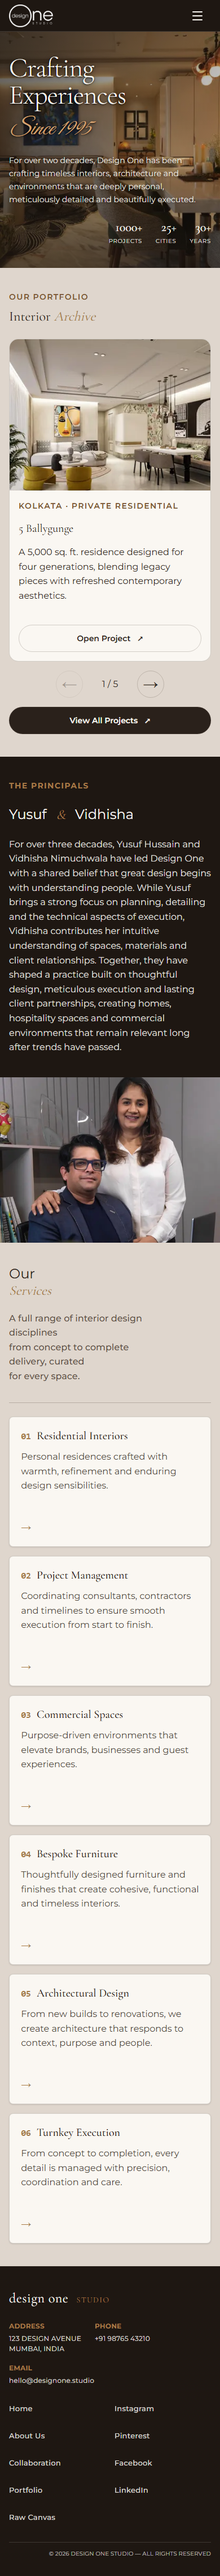
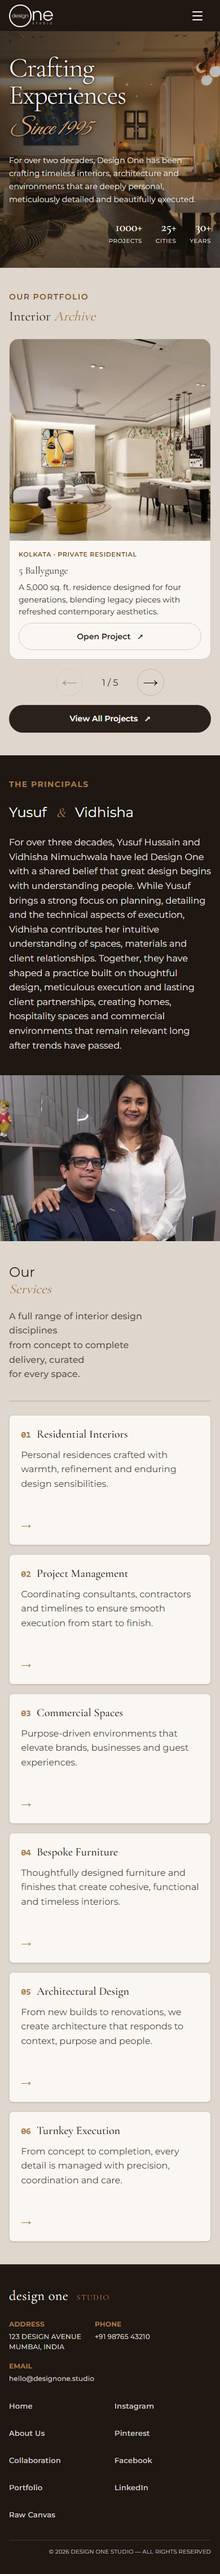
Enlarge mobile carousel photos and reduce caption text

diff --git a/app/mobile-v2.css b/app/mobile-v2.css
@@ -216,14 +216,17 @@
   .mobile-v2 .v2-home-stats p:first-child { font-size: 24px !important; line-height: 1.2; }
   .mobile-v2 .v2-home-stats p:last-child { font-size: 10px !important; line-height: 1.5; letter-spacing: .08em !important; }
   .mobile-v2 .v2-portfolio-hero-frame { min-height: 300px; padding: 24px; }
-  .v2-mobile-carousel-track .v2-preview-photo { aspect-ratio: 16 / 9; }
-  .v2-mobile-carousel-track .v2-preview-copy { min-height: 220px; }
+  .v2-mobile-carousel-track .v2-preview-photo { aspect-ratio: 3 / 2; }
+  .v2-mobile-carousel-track .v2-preview-copy { min-height: 176px; gap: 8px; }
+  .mobile-v2 .v2-preview-copy h3 { font-size: 18px !important; line-height: 1.3 !important; }
+  .mobile-v2 .v2-preview-copy > p { font-size: 14px !important; line-height: 1.55; }
+  .mobile-v2 .v2-preview-copy > .v2-eyebrow { font-size: 11px !important; letter-spacing: .06em !important; }
 }
 @media (max-width: 767px) {
   .mobile-v2 .v2-home-copy h1 { font-size: 48px !important; }
   .mobile-v2 .v2-home-copy .font-script { font-size: 40px !important; }
   .mobile-v2 .v2-home-stats p:first-child { font-size: 22px !important; }
-  .v2-mobile-carousel-track .v2-preview-photo { aspect-ratio: 4 / 3; }
+  .v2-mobile-carousel-track .v2-preview-photo { aspect-ratio: 1 / 1; }
   .mobile-v2 .v2-filter-bar { gap: 4px; justify-content: flex-start; }
   .mobile-v2 .v2-filter-bar .v2-filter-button { font-size: clamp(8px, calc(2.9vw - 2.5px), 11px) !important; letter-spacing: 0 !important; }
   .v2-filter-button span { padding: 7px 4px; }

diff --git a/review/CHANGES.md b/review/CHANGES.md
@@ -6,7 +6,7 @@ The visitor website now adapts to phone and tablet viewports while retaining its
 
 - Phone content layouts stack vertically below 768px. Tablet card collections use two columns through 1279px; reading, galleries, and forms remain single-column.
 - Content gutters are at least 16px on phones and 24px on tablets. Body and form text is 16px. Phone headings use H1 28px and H2 24px; tablet headings use 36px / 28px. The revised homepage hero intentionally uses 48px / 64px titles, a 40px / 48px script line, and smaller 14px supporting text. Inline display sizes were moved into CSS classes.
-- The homepage has a compact image-backed hero, small right-aligned statistics without divider lines, a swipeable live-project carousel, a full-width portfolio CTA, principals introduction/photo, services, and footer.
+- The homepage has a compact image-backed hero, small right-aligned statistics without divider lines, a swipeable live-project carousel with larger image frames and compact captions (11px location, 18px title, 14px description), a full-width portfolio CTA, principals introduction/photo, services, and footer.
 - Portfolio masonry is flattened for compact viewports. Its complete “Our Portfolio” title is visible in a naturally sized hero, all four compact filters stay in one row, and photographs fill cards without black padding. Collaboration introductions precede galleries. Raw Canvas process layouts are simplified, with decorative icons omitted on phones/tablets. Articles and Careers keep their reading order.
 - The fixed header is 56px on compact viewports and 80px on desktop, with separate device-safe-area allowance. The hamburger panel sits below it and includes scroll locking, focus containment/restoration, Escape, outside-tap dismissal, route closing, and desktop-resize closing.
 - Main navigation links and carousel controls have 48px minimum targets. Compact portfolio filters keep a 48px touch height. Forms and primary CTAs fill available phone content width. Labels are associated with fields. The homepage footer uses compact 13px links and 12px contact details; other public footers retain 16px navigation.

diff --git a/review/PERFORMANCE.md b/review/PERFORMANCE.md
@@ -1,5 +1,7 @@
 # Mobile V2 performance report
 
+Benchmark snapshot: commit 738f20a, before the subsequent carousel image/caption sizing adjustment.
+
 Measured on 2026-10-14 after the requested homepage and portfolio revisions. Three alternating production-mode runs per version used the same Playwright Chromium browser, a fresh browser profile each time, and Lighthouse mobile simulated throttling: 412 × 823 CSS pixels, DPR 1.75, 150ms modeled RTT, 1638.4 Kbps throughput, and 4× CPU slowdown. Image-optimizer server caches were warm. These are local lab measurements, not field or physical-device measurements.
 
 Both versions used the deployed site's real project read API. All six benchmark runs recorded an HTTP 200 project response. No intercepted responses or sample-data mode were used. Original: localhost:3001; V2: localhost:3002.
